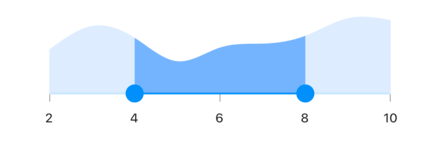
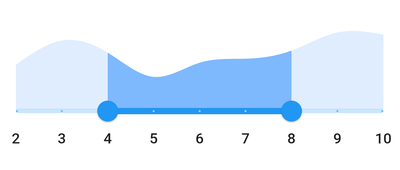
FLUT-4949-[feature][flutter]: modified images

diff --git a/Flutter/range-selector/labels-and-divider.md b/Flutter/range-selector/labels-and-divider.md
@@ -647,8 +647,7 @@ Widget build(BuildContext context) {
           body: Center(
               child: SfRangeSelectorTheme(
                     data: SfRangeSelectorThemeData(
-                        activeTrackHeight: 5,
-                        inactiveTrackHeight: 5,
+                      labelOffset: Offset(0, 15),
                     ),
                     child:  SfRangeSelector(
                         min: _min,
